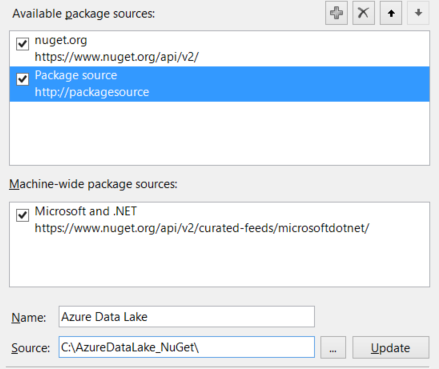
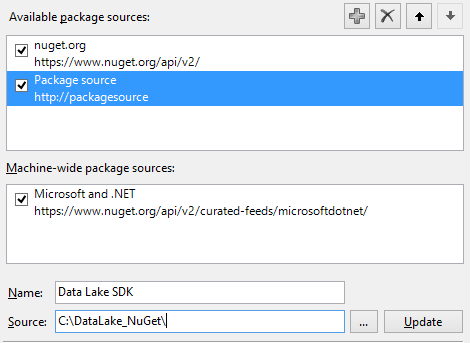
Updated ADL docs.

diff --git a/docs/SDK/FirstSteps.md b/docs/SDK/FirstSteps.md
@@ -7,9 +7,9 @@ This guide assumes you have previously followed the steps in the main [Getting S
 ### First steps
 
 #### Download and extract the Azure Data Lake .NET SDK NuGet packages
-1. Download the [Azure Data Lake .NET SDK NuGet packages here](https://microsoft.sharepoint.com/teams/AzureDataLake/Documents/PrivatePreviewRefresh/AzureSDK_DataLake.zip).
-1. Extract the contents of *AzureSDK_DataLake.zip*.
-1. Place the contents in a directory, e.g. ``C:\NuGet\...``
+1. Download the [Azure Data Lake .NET SDK NuGet packages here](https://github.com/MicrosoftBigData/AzureDataLake/releases/download/PowerShellSDK/AzureSDK_DataLake_Only.zip).
+1. Extract the contents of **AzureSDK_DataLake_Only.zip**.
+1. Place the contents in a directory, e.g. ``C:\KonaDataLake_NuGet\...``
 
 #### Add NuGet packages to your .NET project in Visual Studio
 1. Either open or create a .NET project in Visual Studio.
@@ -28,8 +28,8 @@ This guide assumes you have previously followed the steps in the main [Getting S
 
 1. Enter the information below for the new source:
 
-    * Name: Azure Data Lake
-    * Source: C:\AzureDataLake_NuGet\
+    * Name: Data Lake SDK
+    * Source: C:\KonaDataLake_NuGet\
 
         Note: Use the path where you placed the NuGet packages initially.
 
@@ -63,4 +63,8 @@ This guide assumes you have previously followed the steps in the main [Getting S
 
 Browse the following pages:
 
-* *(place table of contents here)*
+* [Getting Started](../GettingStarted.md)
+* Tools
+    * [Azure Portal](../AzurePortal/FirstSteps.md)
+    * [Kona PowerShell](../PowerShell/FirstSteps.md)
+    * [SDK](../SDK/FirstSteps.md)

diff --git a/docs/GettingStarted.md b/docs/GettingStarted.md
@@ -9,15 +9,15 @@ To use this new Azure service, follow these simple steps:
 #### Your Azure subscription
 1. If you're already part of an Azure subscription, skip this step.<br />If you're not, [create a new Azure subscription here](https://account.windowsazure.com/Subscriptions).
 1. Visit [the Azure Portal](https://portal.azure.com) and log in.
-1. Click *Browse* and select *Subscriptions*.
+1. Click **Browse** and select **Subscriptions**.
 1. Select the desired subscription.
 1. Write down the given Subscription ID. You'll need this later.
    
 
 #### Install Azure PowerShell with Data Lake
-1. Download the [Azure PowerShell module here](https://microsoft.sharepoint.com/teams/AzureDataLake/Documents/PrivatePreviewRefresh/AzurePowerShell.zip).
-1. Extract the contents of *AzurePowerShell.zip*.
-1. Right click on *install.ps1* and click *Run with PowerShell*.
+1. Download the [Azure PowerShell module here](https://github.com/MicrosoftBigData/AzureDataLake/releases/download/PowerShellSDK/AzurePS_KonaDataLake.zip).
+1. Extract the contents of **AzurePowerShell.zip**.
+1. Right click on **INSTALL_RunAsAdministrator.ps1** and click **Run as administrator**.
 1. Follow the steps in the installation wizard.
 
 #### See What Data Lake Accounts you have 
@@ -47,4 +47,8 @@ To create an account, pick one of the two options below.
 
 Browse the following pages:
 
-* *(place table of contents here)*
+* [Getting Started](docs/GettingStarted.md)
+* Tools
+    * [Azure Portal](docs/AzurePortal/FirstSteps.md)
+    * [Kona PowerShell](docs/PowerShell/FirstSteps.md)
+    * [SDK](docs/SDK/FirstSteps.md)

diff --git a/README.md b/README.md
@@ -2,6 +2,16 @@
 
 Any information available here is *MICROSOFT CONFIDENTIAL.*
 
+
+* [Azure Data Lake SharePoint](http://aka.ms/AzureDataLake)
+
+
+### Useful links
+
 Browse the following pages:
 
-* *(place table of contents here)*
+* [Getting Started](docs/GettingStarted.md)
+* Tools
+    * [Azure Portal](docs/AzurePortal/FirstSteps.md)
+    * [Kona PowerShell](docs/PowerShell/FirstSteps.md)
+    * [SDK](docs/SDK/FirstSteps.md)

diff --git a/docs/PowerShell/Tutorials.md b/docs/PowerShell/Tutorials.md
@@ -191,3 +191,12 @@ Now let’s download the output to examine it.
 
 At this point you are done with your scenario and you have learned Uploading, Listing, and Downloading files in ADL.
 
+### Useful links
+
+Browse the following pages:
+
+* [Getting Started](../GettingStarted.md)
+* Tools
+    * [Azure Portal](../AzurePortal/FirstSteps.md)
+    * [Kona PowerShell](../PowerShell/FirstSteps.md)
+    * [SDK](../SDK/FirstSteps.md)

diff --git a/docs/SDK/UserManual.md b/docs/SDK/UserManual.md
@@ -1068,4 +1068,8 @@ Here is a list of the interfaces, their properties, and their function headers:
 
 Browse the following pages:
 
-* *(place table of contents here)*
+* [Getting Started](../GettingStarted.md)
+* Tools
+    * [Azure Portal](../AzurePortal/FirstSteps.md)
+    * [Kona PowerShell](../PowerShell/FirstSteps.md)
+    * [SDK](../SDK/FirstSteps.md)

diff --git a/docs/PowerShell/UserManual.md b/docs/PowerShell/UserManual.md
@@ -144,4 +144,8 @@ This guide assumes you have previously followed the steps in the main [Getting S
 
 Browse the following pages:
 
-* *(place table of contents here)*
+* [Getting Started](../GettingStarted.md)
+* Tools
+    * [Azure Portal](../AzurePortal/FirstSteps.md)
+    * [Kona PowerShell](../PowerShell/FirstSteps.md)
+    * [SDK](../SDK/FirstSteps.md)

diff --git a/docs/SDK/Tutorials.md b/docs/SDK/Tutorials.md
@@ -17,4 +17,8 @@ This guide assumes you have previously followed the steps in the main [Getting S
 
 Browse the following pages:
 
-* *(place table of contents here)*
+* [Getting Started](../GettingStarted.md)
+* Tools
+    * [Azure Portal](../AzurePortal/FirstSteps.md)
+    * [Kona PowerShell](../PowerShell/FirstSteps.md)
+    * [SDK](../SDK/FirstSteps.md)

diff --git a/docs/PowerShell/FirstSteps.md b/docs/PowerShell/FirstSteps.md
@@ -43,4 +43,8 @@ If you need to create a new Resource Group
 
 Browse the following pages:
 
-* *(place table of contents here)*
+* [Getting Started](../GettingStarted.md)
+* Tools
+    * [Azure Portal](../AzurePortal/FirstSteps.md)
+    * [Kona PowerShell](../PowerShell/FirstSteps.md)
+    * [SDK](../SDK/FirstSteps.md)
